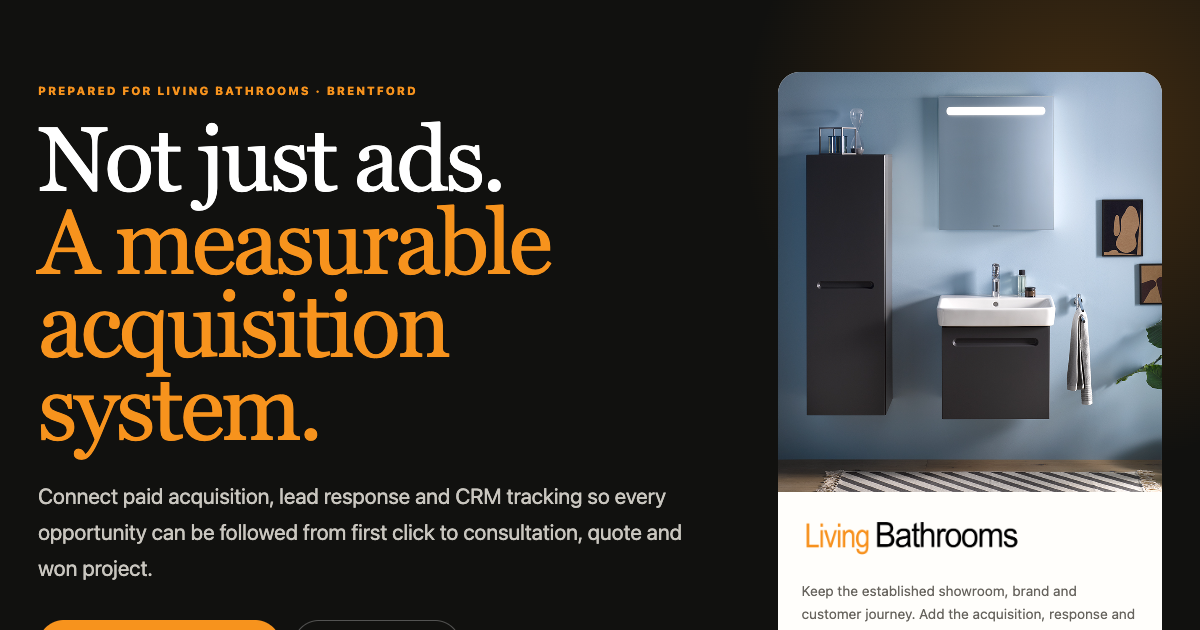
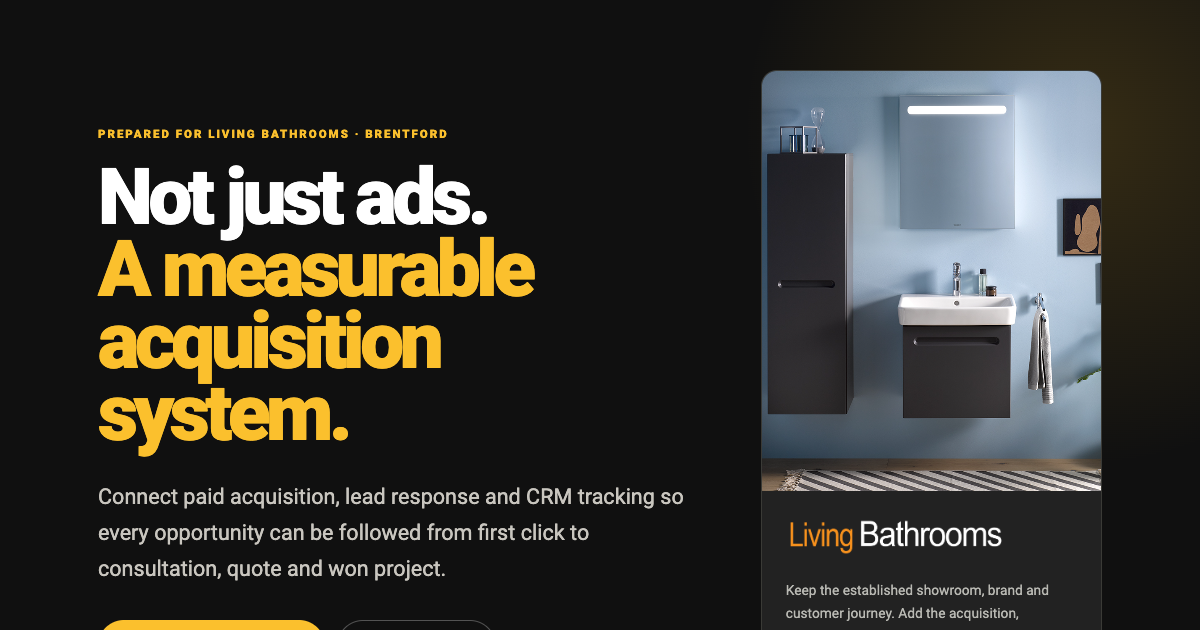
Align Living Bathrooms proposal with UKTL design system

diff --git a/living-bathrooms/index.html b/living-bathrooms/index.html
@@ -27,7 +27,7 @@
       --paper: #f5f1e9;
       --white: #fffefb;
       --line: #d8d2c7;
-      --orange: #f7931d;
+      --orange: #fbc02d;
       --orange-soft: #ffe5c5;
       --blue: #a9c3d8;
       --max: 1180px;
@@ -42,7 +42,7 @@
     .wrap { margin: 0 auto; max-width: var(--max); padding-left: 28px; padding-right: 28px; }
     .eyebrow { color: var(--orange); font-size: .72rem; font-weight: 800; letter-spacing: .17em; margin: 0 0 18px; text-transform: uppercase; }
     h1, h2, h3, p { margin-top: 0; }
-    h1, h2, .display { font-family: Georgia, "Times New Roman", serif; font-weight: 500; letter-spacing: -.035em; }
+    h1, h2, .display { font-family: "Segoe UI", Roboto, Helvetica, Arial, sans-serif; font-weight: 800; letter-spacing: -.035em; }
     h1 { font-size: clamp(3.3rem, 7.6vw, 7.7rem); line-height: .91; margin-bottom: 30px; max-width: 980px; }
     h2 { font-size: clamp(2.5rem, 5vw, 5.25rem); line-height: .96; margin-bottom: 24px; max-width: 900px; }
     h3 { font-size: 1.08rem; line-height: 1.2; }
@@ -72,7 +72,7 @@
     .hero-card-copy p { font-size: .86rem; margin: 0; }
     .hero-foot { align-items: center; border-top: 1px solid rgba(255,255,255,.14); display: grid; gap: 18px; grid-template-columns: repeat(3,1fr); margin-top: 64px; padding-top: 24px; position: relative; z-index: 1; }
     .hero-foot span { color: #9e9c96; font-size: .7rem; letter-spacing: .09em; text-transform: uppercase; }
-    .hero-foot strong { color: white; display: block; font-family: Georgia, serif; font-size: 1.1rem; font-weight: 500; margin-top: 6px; }
+    .hero-foot strong { color: white; display: block; font-size: 1.1rem; font-weight: 750; margin-top: 6px; }
     section { padding: 110px 0; }
     .section-head { align-items: end; display: flex; gap: 60px; justify-content: space-between; margin-bottom: 54px; }
     .section-head > p { max-width: 420px; }
@@ -83,7 +83,7 @@
     .ready-card h3 { margin-bottom: 8px; }
     .ready-card p { font-size: .78rem; line-height: 1.45; margin: 0; }
     .verdict { align-items: center; background: var(--ink); border-radius: var(--radius); color: white; display: grid; gap: 36px; grid-template-columns: 1.4fr .6fr; margin-top: 16px; padding: 34px 38px; }
-    .verdict h3 { font-family: Georgia, serif; font-size: clamp(1.8rem,4vw,3.6rem); font-weight: 500; margin: 0; }
+    .verdict h3 { font-size: clamp(1.8rem,4vw,3.6rem); font-weight: 780; margin: 0; }
     .verdict p { color: #bdbab4; margin: 0; }
     .system { background: #a9c3d8; }
     .system h2 { max-width: 1050px; }
@@ -91,7 +91,7 @@
     .flow-card { background: rgba(255,255,255,.72); border: 1px solid rgba(17,17,15,.12); border-radius: 16px; min-height: 150px; padding: 18px; position: relative; }
     .flow-card:not(:last-child)::after { align-items: center; background: var(--orange); border-radius: 50%; content: "→"; display: flex; font-weight: 900; height: 28px; justify-content: center; position: absolute; right: -20px; top: 58px; width: 28px; z-index: 2; }
     .flow-card small { color: #5f6263; display: block; font-size: .62rem; font-weight: 850; letter-spacing: .1em; margin-bottom: 34px; text-transform: uppercase; }
-    .flow-card strong { display: block; font-family: Georgia, serif; font-size: 1.18rem; font-weight: 500; }
+    .flow-card strong { display: block; font-size: 1.18rem; font-weight: 750; }
     .system-tail { display: grid; gap: 10px; grid-template-columns: repeat(5,1fr); margin-top: 10px; }
     .system-tail .flow-card { background: rgba(17,17,15,.9); color: white; min-height: 126px; }
     .system-tail .flow-card small { color: #aeb8bd; margin-bottom: 20px; }
@@ -103,14 +103,14 @@
     .measurement .lead { color: #c5c2bb; }
     .numbers { display: grid; gap: 10px; grid-template-columns: repeat(7,1fr); margin-top: 50px; }
     .number { border: 1px solid #363632; border-radius: 14px; min-height: 140px; padding: 17px; }
-    .number b { color: var(--orange); display: block; font-family: Georgia, serif; font-size: 2.1rem; font-weight: 500; margin-bottom: 18px; }
+    .number b { color: var(--orange); display: block; font-size: 2.1rem; font-weight: 800; margin-bottom: 18px; }
     .number span { color: #a9a69e; font-size: .68rem; font-weight: 750; letter-spacing: .08em; text-transform: uppercase; }
     .illustrative { color: #8e8b85; font-size: .72rem; margin: 18px 0 0; }
     .comparison { display: grid; gap: 14px; grid-template-columns: 1fr 1fr; margin-top: 72px; }
     .campaign { border-radius: 20px; padding: 30px; }
     .campaign.bad { background: #282824; }
     .campaign.good { background: var(--orange); color: var(--ink); }
-    .campaign h3 { font-family: Georgia, serif; font-size: 2.2rem; font-weight: 500; }
+    .campaign h3 { font-size: 2.2rem; font-weight: 780; }
     .campaign-math { display: flex; gap: 10px; margin: 30px 0; }
     .campaign-math div { border: 1px solid currentColor; border-radius: 12px; flex: 1; padding: 14px; }
     .campaign-math b { display: block; font-size: 1.35rem; }
@@ -125,7 +125,7 @@
     .spend-card p { color: #4e361d; }
     .range { background: var(--paper); border-radius: var(--radius); display: grid; gap: 16px; grid-template-columns: 1fr 1fr; padding: 26px; }
     .range-box { background: var(--white); border-radius: 16px; padding: 28px; }
-    .range-box b { display: block; font-family: Georgia, serif; font-size: 3.3rem; font-weight: 500; }
+    .range-box b { display: block; font-size: 3.3rem; font-weight: 800; }
     .range-box span { color: var(--muted); font-size: .75rem; font-weight: 700; }
     .range-note { background: var(--ink); border-radius: 14px; color: white; grid-column: 1/-1; padding: 22px; }
     .range-note strong { color: var(--orange); display: block; font-size: .75rem; letter-spacing: .1em; margin-bottom: 8px; text-transform: uppercase; }
@@ -135,8 +135,8 @@
     .channels { background: var(--paper); }
     .channel-grid { display: grid; gap: 14px; grid-template-columns: repeat(3,1fr); }
     .channel { background: var(--white); border-radius: var(--radius); padding: 28px; }
-    .channel .channel-no { color: var(--orange); font-family: Georgia, serif; font-size: 2.5rem; }
-    .channel h3 { font-family: Georgia, serif; font-size: 2rem; font-weight: 500; margin: 42px 0 14px; }
+    .channel .channel-no { color: var(--orange); font-size: 2.5rem; font-weight: 800; }
+    .channel h3 { font-size: 2rem; font-weight: 780; margin: 42px 0 14px; }
     .channel ul { color: var(--muted); font-size: .83rem; line-height: 1.6; padding-left: 18px; }
     .channel .tag { border: 1px solid var(--line); border-radius: 999px; display: inline-block; font-size: .66rem; font-weight: 800; letter-spacing: .08em; margin-top: 20px; padding: 9px 12px; text-transform: uppercase; }
     .channel.recommended { background: var(--ink); color: white; }
@@ -148,22 +148,22 @@
     .metric:not(:last-child)::after { content: "↓"; display: none; }
     .measure-priority { display: grid; gap: 14px; grid-template-columns: repeat(4,1fr); margin-top: 22px; }
     .measure-priority div { border-top: 2px solid var(--orange); padding-top: 18px; }
-    .measure-priority strong { display: block; font-family: Georgia, serif; font-size: 1.35rem; font-weight: 500; }
+    .measure-priority strong { display: block; font-size: 1.35rem; font-weight: 750; }
     .measure-priority span { color: var(--muted); font-size: .72rem; }
     .plan { background: var(--white); }
     .plan-grid { display: grid; gap: 14px; grid-template-columns: repeat(3,1fr); }
     .month { border: 1px solid var(--line); border-radius: var(--radius); min-height: 420px; padding: 30px; }
-    .month-no { color: var(--orange); font-family: Georgia, serif; font-size: 4.8rem; line-height: 1; }
-    .month h3 { font-family: Georgia, serif; font-size: 2rem; font-weight: 500; margin: 42px 0 20px; }
+    .month-no { color: var(--orange); font-size: 4.8rem; font-weight: 800; line-height: 1; }
+    .month h3 { font-size: 2rem; font-weight: 780; margin: 42px 0 20px; }
     .month ul { color: var(--muted); line-height: 1.8; padding-left: 18px; }
     .month:last-child { background: var(--ink); color: white; }
     .month:last-child ul { color: #bdbab3; }
     .investment { background: #d9d2c6; }
     .investment-grid { display: grid; gap: 18px; grid-template-columns: 1.15fr .85fr; }
     .investment-main { background: var(--ink); border-radius: var(--radius); color: white; padding: 42px; }
-    .price { color: var(--orange); font-family: Georgia, serif; font-size: clamp(4rem,8vw,7.3rem); letter-spacing: -.06em; line-height: .9; }
+    .price { color: var(--orange); font-size: clamp(4rem,8vw,7.3rem); font-weight: 820; letter-spacing: -.06em; line-height: .9; }
     .price small { color: #a9a69f; font-family: Inter, sans-serif; font-size: .84rem; letter-spacing: 0; }
-    .investment-main h3 { font-family: Georgia, serif; font-size: 2rem; font-weight: 500; margin: 38px 0 18px; }
+    .investment-main h3 { font-size: 2rem; font-weight: 780; margin: 38px 0 18px; }
     .investment-main p { color: #aaa79f; }
     .included { display: grid; gap: 8px; grid-template-columns: 1fr 1fr; margin-top: 30px; }
     .included span { border-top: 1px solid #393934; color: #d3d0c9; font-size: .76rem; padding: 12px 0; }
@@ -187,7 +187,7 @@
     .questions { background: var(--white); }
     .questions-grid { counter-reset: questions; display: grid; gap: 8px 18px; grid-template-columns: 1fr 1fr; }
     .question { align-items: center; border-bottom: 1px solid var(--line); display: grid; gap: 20px; grid-template-columns: 42px 1fr; padding: 18px 0; }
-    .question::before { color: var(--orange); content: counter(questions, decimal-leading-zero); counter-increment: questions; font-family: Georgia, serif; font-size: 1.4rem; }
+    .question::before { color: var(--orange); content: counter(questions, decimal-leading-zero); counter-increment: questions; font-size: 1.4rem; font-weight: 800; }
     .question strong { font-size: .82rem; }
     .question span { color: var(--muted); display: block; font-size: .72rem; margin-top: 3px; }
     .final { background: var(--orange); padding: 120px 0; }
@@ -202,6 +202,81 @@
     .reveal { opacity: 1; transform: none; }
     .js .reveal { opacity: 0; transform: translateY(18px); transition: opacity .7s ease, transform .7s ease; }
     .js .reveal.visible { opacity: 1; transform: none; }
+    /* UK Trade Leads proposal system */
+    :root {
+      --ink: #101010;
+      --muted: #b9b9b3;
+      --paper: #151515;
+      --white: #222222;
+      --line: #3a3a36;
+      --orange: #fbc02d;
+      --orange-soft: #191919;
+      --blue: #1a1a1a;
+      --max: 1060px;
+      --radius: 16px;
+    }
+    body { background: var(--paper); color: #f7f7f5; font-family: "Segoe UI", Roboto, Helvetica, Arial, sans-serif; }
+    h1, h2, .display { font-family: "Segoe UI", Roboto, Helvetica, Arial, sans-serif; font-weight: 820; letter-spacing: -.055em; }
+    h1 { font-size: clamp(3rem, 6.5vw, 6.4rem); line-height: .92; max-width: 800px; }
+    h2 { font-size: clamp(2.3rem, 4.7vw, 4.6rem); line-height: .96; max-width: 820px; }
+    h3 { color: #f7f7f5; }
+    p { color: var(--muted); }
+    .topbar { background: rgba(13,13,13,.96); border-bottom: 1px solid #2f2f2b; backdrop-filter: none; }
+    .uktl-mark { border-radius: 4px; }
+    .hero { background: #101010; }
+    .hero::after { background: radial-gradient(circle, rgba(251,192,45,.16), transparent 68%); }
+    .hero-card { background: #222222; border: 1px solid #3a3a36; color: #f7f7f5; }
+    .hero-card-copy p { color: #b9b9b3; }
+    .hero-foot { border-color: #343430; }
+    .readiness, .budget, .plan, .questions { background: #151515; }
+    .ready-card { background: #222222; border: 1px solid #343430; color: #f7f7f5; }
+    .ready-card p { color: #aaa9a3; }
+    .verdict { background: #242424; border: 1px solid #45453f; }
+    .system { background: #1a1a1a; color: #f7f7f5; }
+    .system h2 { color: #f7f7f5; }
+    .flow-card { background: #242424; border-color: #3c3c37; color: #f7f7f5; }
+    .flow-card small { color: #a8a7a1; }
+    .flow-card:not(:last-child)::after { background: #fbc02d; color: #141414; }
+    .system-tail .flow-card { background: #101010; }
+    .system-tail .flow-card:last-child { background: #fbc02d; color: #151515; }
+    .system-tail .flow-card:last-child small { color: #5b470d; }
+    .system-note { border-color: #393934; color: #b9b9b3; }
+    .measurement { background: #101010; }
+    .number { background: #1b1b1b; border-color: #383833; }
+    .campaign.bad { background: #222222; border: 1px solid #393934; }
+    .campaign.good { background: #fbc02d; }
+    .budget .section-head h2, .channels h2, .measures h2, .plan h2, .investment h2, .proof h2, .questions h2 { color: #f7f7f5; }
+    .spend-card { background: #fbc02d; color: #151515; }
+    .spend-card h3 { color: #151515; }
+    .spend-card p { color: #51420f; }
+    .range { background: #222222; }
+    .range-box { background: #181818; color: #f7f7f5; }
+    .range-note { background: #101010; }
+    .channels, .measures, .proof { background: #171717; }
+    .channel { background: #222222; border: 1px solid #383833; color: #f7f7f5; }
+    .channel p, .channel ul { color: #aaa9a3; }
+    .channel.recommended { background: #101010; border-color: #fbc02d; }
+    .metric { background: #242424; border: 1px solid #3a3a36; color: #f7f7f5; }
+    .measure-priority div { border-color: #fbc02d; }
+    .measure-priority strong { color: #f7f7f5; font-family: "Segoe UI", Roboto, Helvetica, Arial, sans-serif; font-weight: 750; }
+    .month { background: #222222; border-color: #3a3a36; color: #f7f7f5; }
+    .month h3 { font-family: "Segoe UI", Roboto, Helvetica, Arial, sans-serif; font-weight: 760; }
+    .month:last-child { background: #101010; border-color: #fbc02d; }
+    .investment { background: #151515; }
+    .investment-main { background: #101010; border: 1px solid #383833; }
+    .price { color: #fbc02d; font-family: "Segoe UI", Roboto, Helvetica, Arial, sans-serif; font-weight: 820; }
+    .investment-main h3 { font-family: "Segoe UI", Roboto, Helvetica, Arial, sans-serif; font-weight: 760; }
+    .media-card { background: #222222; border: 1px solid #3a3a36; color: #f7f7f5; }
+    .media-card h3 { color: #f7f7f5; }
+    .video-section { background: #101010; }
+    .proof-card { background: #222222; border: 1px solid #383833; color: #f7f7f5; }
+    .proof-copy p { color: #aaa9a3; }
+    .question { border-color: #3a3a36; }
+    .question strong { color: #f7f7f5; }
+    .final { background: #fbc02d; color: #151515; }
+    .final h2 { color: #151515; }
+    .final p { color: #51420f; }
+    footer { border-top: 1px solid #2f2f2b; }
     @media (max-width: 980px) {
       .nav { display: none; }
       .hero-grid, .budget-layout, .investment-grid, .final-grid { grid-template-columns: 1fr; }
@@ -270,7 +345,7 @@
           </div>
           <aside class="hero-card reveal">
             <img src="assets/client/interior.jpg" alt="Premium bathroom interior supplied by Living Bathrooms">
-            <div class="hero-card-copy"><img src="assets/client/logo-black.png" alt="Living Bathrooms logo"><p>Keep the established showroom, brand and customer journey. Add the acquisition, response and measurement layer around them.</p></div>
+            <div class="hero-card-copy"><img src="assets/client/logo.png" alt="Living Bathrooms logo"><p>Keep the established showroom, brand and customer journey. Add the acquisition, response and measurement layer around them.</p></div>
           </aside>
         </div>
         <div class="hero-foot reveal"><span>Recommendation<strong>Meta first</strong></span><span>Infrastructure<strong>CRM + automation</strong></span><span>Commercial goal<strong>Measure revenue, not forms</strong></span></div>

diff --git a/DESIGN.md b/DESIGN.md
@@ -1,0 +1,38 @@
+# UKTL Client Proposal Design
+
+## Theme
+
+Dark, practical and operational. The proposal is reviewed on desktop or mobile as a decision document. It should feel calm, serious and easy to scan.
+
+## Colors
+
+- Page: `#151515`
+- Deep section: `#101010`
+- Elevated surface: `#222222`
+- Elevated surface strong: `#272727`
+- Primary accent: `#fbc02d`
+- Primary text: `#f7f7f5`
+- Muted text: `#b9b9b3`
+- Divider: `#3a3a36`
+- Positive status: `#69b578`
+
+## Typography
+
+Use Segoe UI, Roboto, Helvetica and Arial. Headings are compact, heavy and practical. Body copy is readable, short and limited in width. Uppercase labels are reserved for small operational cues.
+
+## Components
+
+- Compact utility header with UKTL identity and a single primary CTA.
+- Two-column hero with client partnership mark and one decisive recommendation.
+- Numbered operating modules, status pills and structured diagrams.
+- Elevated charcoal cards with subtle borders and 12px to 18px radii.
+- Yellow reserved for emphasis, active states, connectors and primary actions.
+- Client imagery used selectively inside framed, neutral surfaces.
+
+## Layout
+
+Use a 1000px to 1100px content area, 24px desktop gutters and 18px mobile gutters. Alternate dense decision sections with visual system diagrams, proof and video. Stack cleanly below tablet widths.
+
+## Client Branding
+
+Living Bathrooms' logo and imagery provide context, but do not replace UKTL yellow and charcoal as the proposal shell.

diff --git a/PRODUCT.md b/PRODUCT.md
@@ -1,0 +1,33 @@
+# Product
+
+## Register
+
+brand
+
+## Users
+
+Living Bathrooms decision-makers reviewing a commercial recommendation from UK Trade Leads. They need to understand the system, investment, limits and next step within five to eight minutes.
+
+## Product Purpose
+
+Present a concise, evidence-led recommendation for connecting paid acquisition, CRM, follow-up and revenue attribution. Success means the client understands that UK Trade Leads is proposing a measurable operating system, not simply advertising management.
+
+## Brand Personality
+
+Practical, assured, informed.
+
+## Anti-references
+
+Not a glossy agency brochure, generic presentation template, orange lifestyle campaign, oversized marketing report or unsubstantiated forecast.
+
+## Design Principles
+
+- UK Trade Leads remains the dominant visual system.
+- Client branding appears as a considered partnership signal.
+- Operational diagrams and precise labels do more work than paragraphs.
+- Commercial terms and uncertainty remain obvious.
+- Every section should help the decision move forward.
+
+## Accessibility & Inclusion
+
+Maintain strong contrast, visible focus states, readable labels, reduced-motion support, descriptive alt text and a clean 390px mobile layout.
